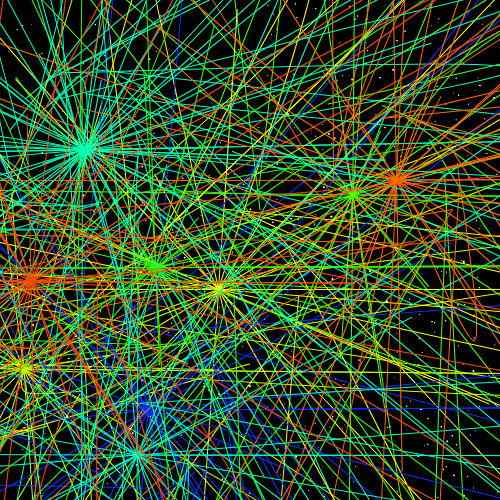
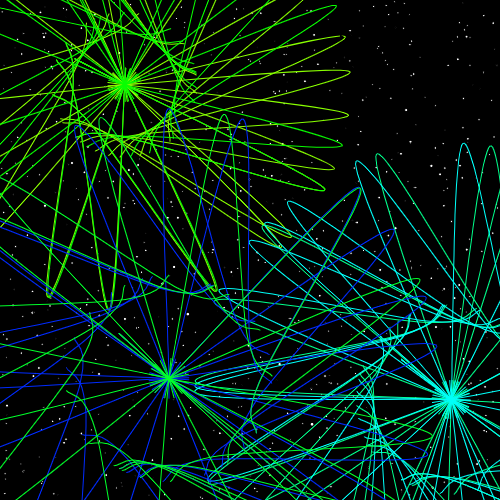
num

diff --git a/generative art/sketch.js b/generative art/sketch.js
@@ -7,6 +7,7 @@
 
 let zoom = 1;
 let x,y;
+let num;
 function setup() {
   createCanvas(500*zoom, 500*zoom);
   colorMode(HSB);
@@ -15,50 +16,19 @@ function setup() {
 
 function draw() {
   background(0);
-  fill(255);
-  star();
-  for(let i = 0; i<2.5*zoom;i++){
-    art();
+  for(let i = 0;i<10;i++){
+    lines();
   }
-  // save("processnum4.png");
+  // save("processnum3.png");
 }
 
 
-function star(){
-  for(let stars = 750*zoom;stars>0;stars--){
-    let x = random(width);
-    let y = random(height);
-    size = randomGaussian(2,0.5);
-    circle(x,y,size);
-  }
-}
-
-function art(){
+function lines(){
+// line from one side to a height
   stroke(random(255),255,255);
-  noFill();
-  x = random(0,width);
-  y = random(0,height);
-  let len = random(50,100);
-  for(let i = 0; i <2; i ++){
-    stroke(random(255),255,255);
-    for(let fire = 0; fire<360;fire+=randomGaussian(20,10)){
-      push();
-      translate(x,y);
-      rotate(radians(fire));
-      beginShape();
-      curveVertex(0,0);
-      curveVertex(0,0);
-      curveVertex(0,0);
-      curveVertex(200,len*2);
-      curveVertex(0,len);
-      curveVertex(-50,len);
-      curveVertex(-50,len);
-      endShape();
-      pop();
-    }
-  }
+  x = random(width);
+  y = random(height);
+  num = random(2);
+  print(num);
 
 }
-// as fire gets closer to 180 the line gets straighter
-
-// save("processnum3.png");
